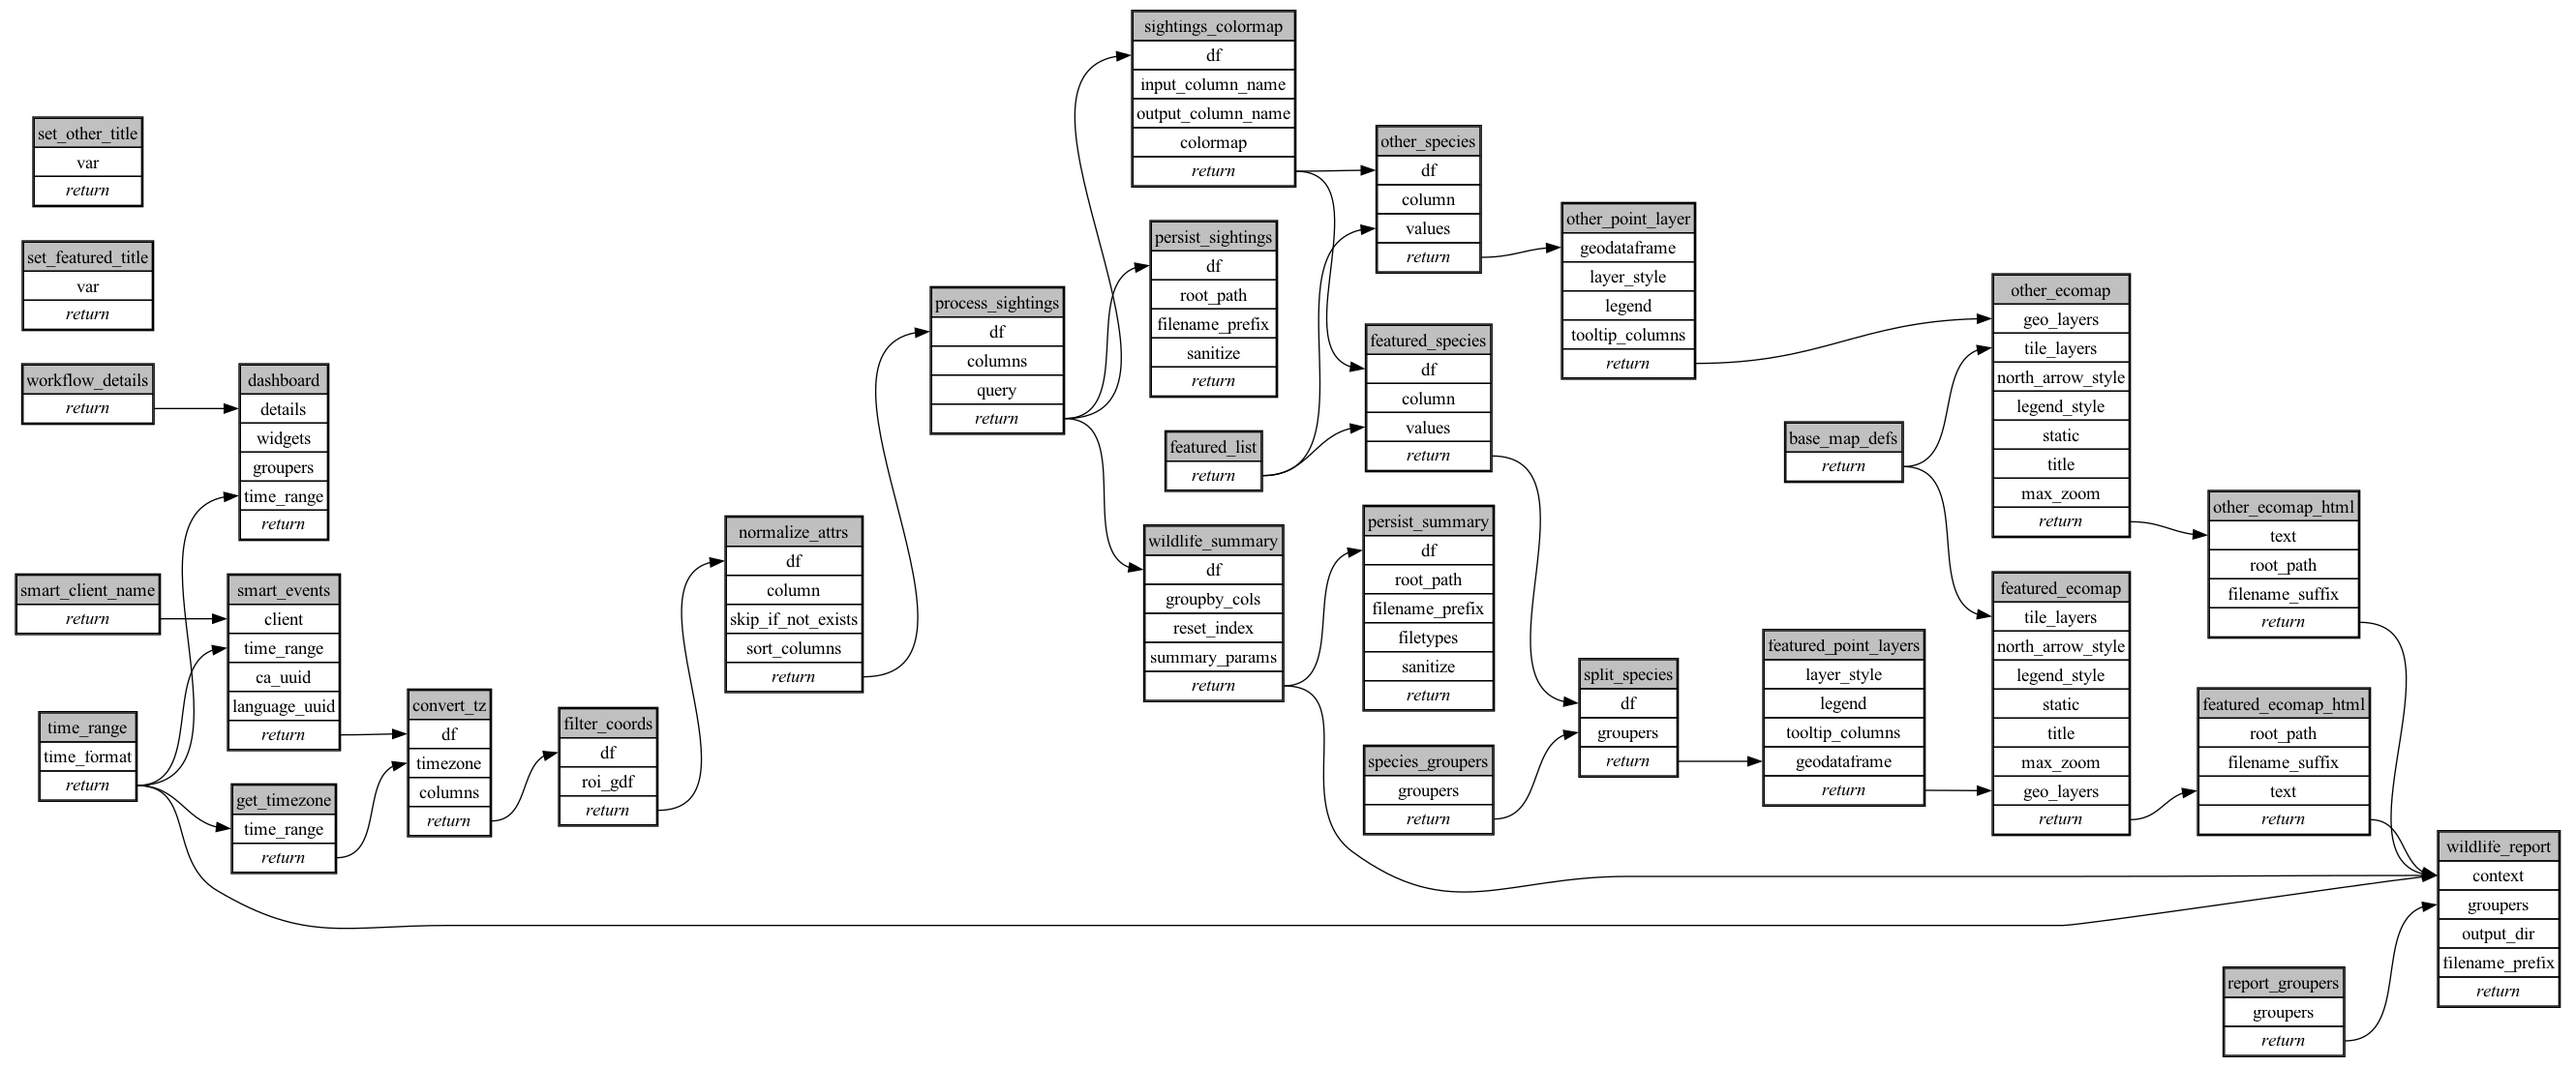
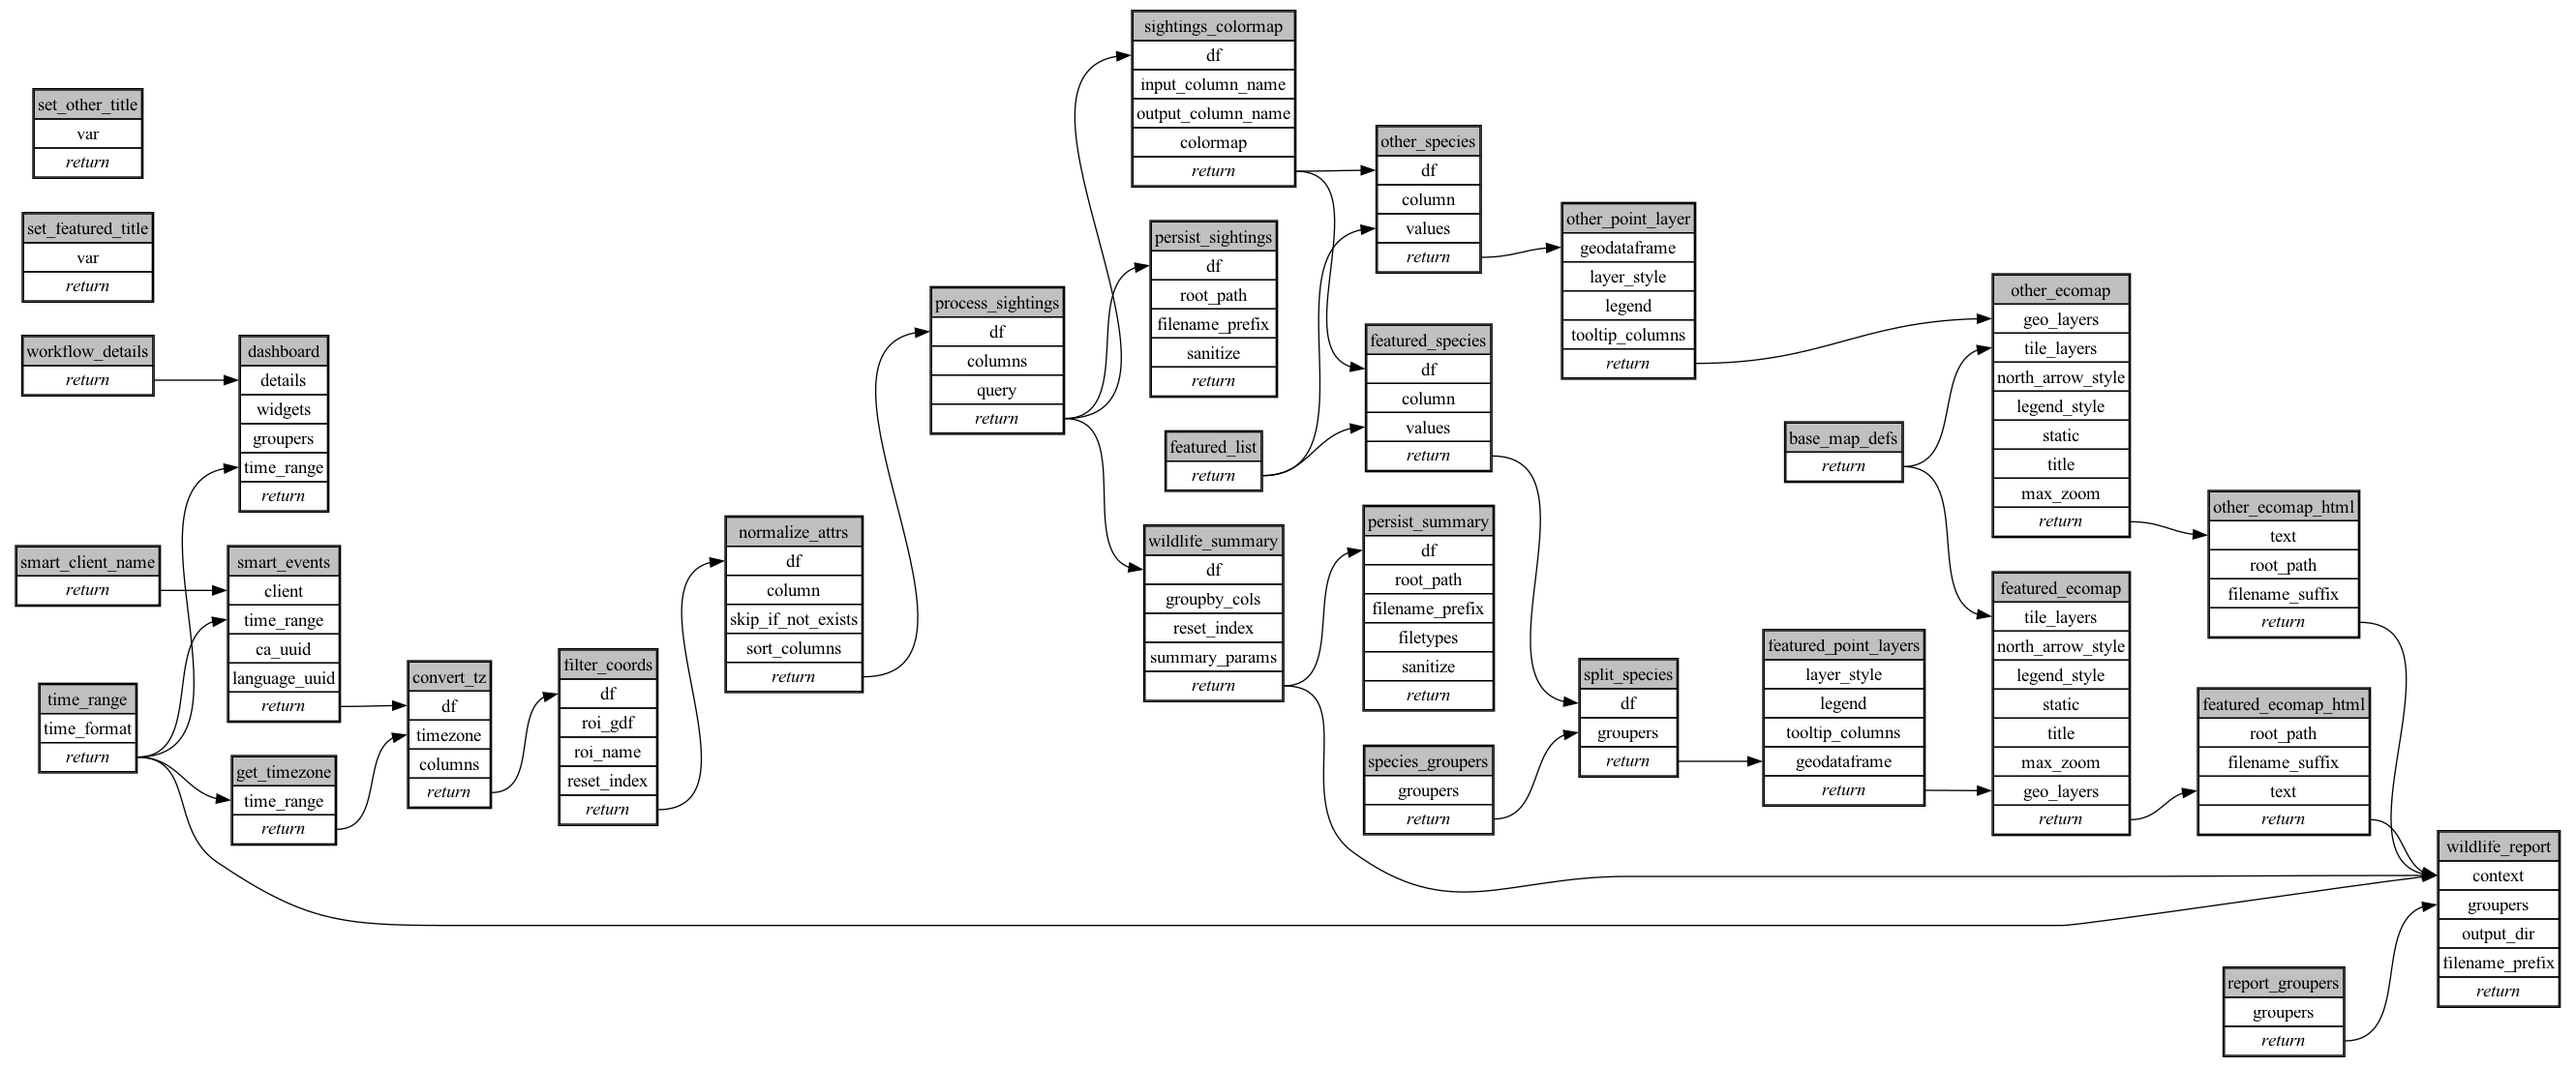
fix: hide roi_name and reset_index from filter_coords form
Match mt-patrols pattern: hardcode roi_gdf=null, roi_name=null,
reset_index=false via partial.

Changed region(s): [[0.0, 0.3083, 0.2807, 0.8323], [0.0, 0.0617, 0.0624, 0.4007], [0.1248, 0.8631, 0.156, 0.8939]]

diff --git a/ecoscope-workflows-mt-wildlife-workflow/ecoscope_workflows_mt_wildlife_workflow/dags/jupytext.py b/ecoscope-workflows-mt-wildlife-workflow/ecoscope_workflows_mt_wildlife_workflow/dags/jupytext.py
@@ -268,8 +268,6 @@ convert_tz = (
 filter_coords_params = dict(
     bounding_box=...,
     filter_point_coords=...,
-    roi_name=...,
-    reset_index=...,
 )
 
 # %%
@@ -287,7 +285,13 @@ filter_coords = (
         ],
         unpack_depth=1,
     )
-    .partial(df=convert_tz, roi_gdf=None, **filter_coords_params)
+    .partial(
+        df=convert_tz,
+        roi_gdf=None,
+        roi_name=None,
+        reset_index=False,
+        **filter_coords_params,
+    )
     .call()
 )
 

diff --git a/ecoscope-workflows-mt-wildlife-workflow/ecoscope_workflows_mt_wildlife_workflow/formdata.py b/ecoscope-workflows-mt-wildlife-workflow/ecoscope_workflows_mt_wildlife_workflow/formdata.py
@@ -275,10 +275,6 @@ class FilterCoords(BaseModel):
         description="By adding a filter, the workflow will not include events recorded at the specified coordinates.",
         title="Filter Exact Point Coordinates",
     )
-    roi_name: str | None = Field(None, description="The ROI name", title="Roi Name")
-    reset_index: bool | None = Field(
-        True, description="Reset index after filtering", title="Reset Index"
-    )
 
 
 class ProcessSightings(BaseModel):

diff --git a/ecoscope-workflows-mt-wildlife-workflow/ecoscope_workflows_mt_wildlife_workflow/params.py b/ecoscope-workflows-mt-wildlife-workflow/ecoscope_workflows_mt_wildlife_workflow/params.py
@@ -274,10 +274,6 @@ class FilterCoords(BaseModel):
         description="By adding a filter, the workflow will not include events recorded at the specified coordinates.",
         title="Filter Exact Point Coordinates",
     )
-    roi_name: str | None = Field(None, description="The ROI name", title="Roi Name")
-    reset_index: bool | None = Field(
-        True, description="Reset index after filtering", title="Reset Index"
-    )
 
 
 class Params(BaseModel):

diff --git a/ecoscope-workflows-mt-wildlife-workflow/ecoscope_workflows_mt_wildlife_workflow/dags/run_sequential.py b/ecoscope-workflows-mt-wildlife-workflow/ecoscope_workflows_mt_wildlife_workflow/dags/run_sequential.py
@@ -191,7 +191,11 @@ def main(params: Params):
             unpack_depth=1,
         )
         .partial(
-            df=convert_tz, roi_gdf=None, **(params_dict.get("filter_coords") or {})
+            df=convert_tz,
+            roi_gdf=None,
+            roi_name=None,
+            reset_index=False,
+            **(params_dict.get("filter_coords") or {}),
         )
         .call()
     )

diff --git a/ecoscope-workflows-mt-wildlife-workflow/ecoscope_workflows_mt_wildlife_workflow/dags/run_sequential_mock_io.py b/ecoscope-workflows-mt-wildlife-workflow/ecoscope_workflows_mt_wildlife_workflow/dags/run_sequential_mock_io.py
@@ -205,7 +205,11 @@ def main(params: Params):
             unpack_depth=1,
         )
         .partial(
-            df=convert_tz, roi_gdf=None, **(params_dict.get("filter_coords") or {})
+            df=convert_tz,
+            roi_gdf=None,
+            roi_name=None,
+            reset_index=False,
+            **(params_dict.get("filter_coords") or {}),
         )
         .call()
     )

diff --git a/ecoscope-workflows-mt-wildlife-workflow/ecoscope_workflows_mt_wildlife_workflow/dags/run_async.py b/ecoscope-workflows-mt-wildlife-workflow/ecoscope_workflows_mt_wildlife_workflow/dags/run_async.py
@@ -241,6 +241,8 @@ def main(params: Params):
             partial={
                 "df": DependsOn("convert_tz"),
                 "roi_gdf": None,
+                "roi_name": None,
+                "reset_index": False,
             }
             | (params_dict.get("filter_coords") or {}),
             method="call",

diff --git a/ecoscope-workflows-mt-wildlife-workflow/ecoscope_workflows_mt_wildlife_workflow/dags/run_async_mock_io.py b/ecoscope-workflows-mt-wildlife-workflow/ecoscope_workflows_mt_wildlife_workflow/dags/run_async_mock_io.py
@@ -255,6 +255,8 @@ def main(params: Params):
             partial={
                 "df": DependsOn("convert_tz"),
                 "roi_gdf": None,
+                "roi_name": None,
+                "reset_index": False,
             }
             | (params_dict.get("filter_coords") or {}),
             method="call",

diff --git a/ecoscope-workflows-mt-wildlife-workflow/README.md b/ecoscope-workflows-mt-wildlife-workflow/README.md
@@ -5,8 +5,8 @@
 
 ```yaml
 # fingerprint:
-artifacts_sha256_basic: 3d97096d1ac78557b5843b4239b6dcb8afb391a8d20d088aa7c7f98347355155
-artifacts_sha256_strict: 06844f9bccc38d982ec3bf53049fa018d842ac7c6c3c6746b6943012548788a9
+artifacts_sha256_basic: 3600fe996f871bc49f67c1d6b6ba922c5d9b7376de5433206471d26a224665b9
+artifacts_sha256_strict: 757e32454d0a22feccc7297fde670af398b172d9a44980407d8c079456a2f6f8
 installed_requirements:
 - channel: file:///tmp/ecoscope-workflows/release/artifacts/
   name: ecoscope-workflows-core
@@ -20,8 +20,8 @@ installed_requirements:
 - channel: https://repo.prefix.dev/ecoscope-workflows-custom/
   name: pydeck
   version: {version: ==0.9.1a2}
-params_sha256: 92be4978f556f2d2e5c7f98d322df6b301978b76a1926a987829e2c712a8c832
-spec_sha256: 8f42c89646d05d486aa810f28a4dc7046334244fa12a8783cf7bd3a1fc0f0e83
+params_sha256: 69b2189e7e687972afb9a94cad7172441c347e9e8533d637a7b9403cf58894d5
+spec_sha256: 12db4cbcfb0f683022df68494d18e8d8f0b1d01688d07636b54dafd968521307
 
 ```
 
